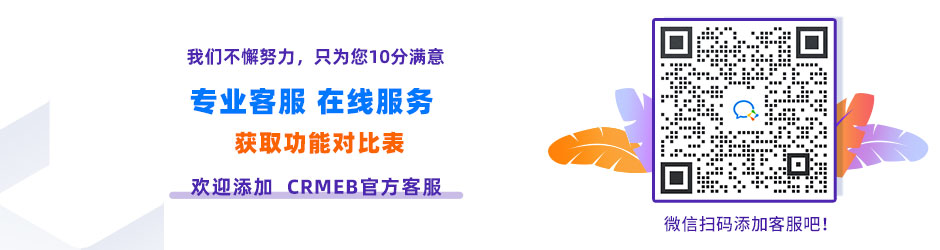
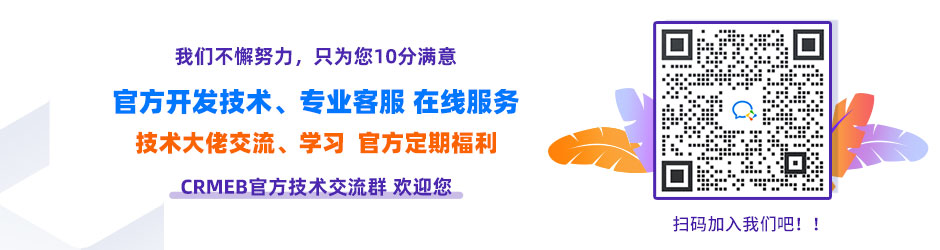
更新文档

diff --git a/README.md b/README.md
@@ -78,7 +78,7 @@ Redis
 
 
 
-### 官方客服
+### 官方技术交流群
 ![输入图片说明](readme/images/image.jpg)
 ### CRMEB官方论坛：https://q.crmeb.com
 
